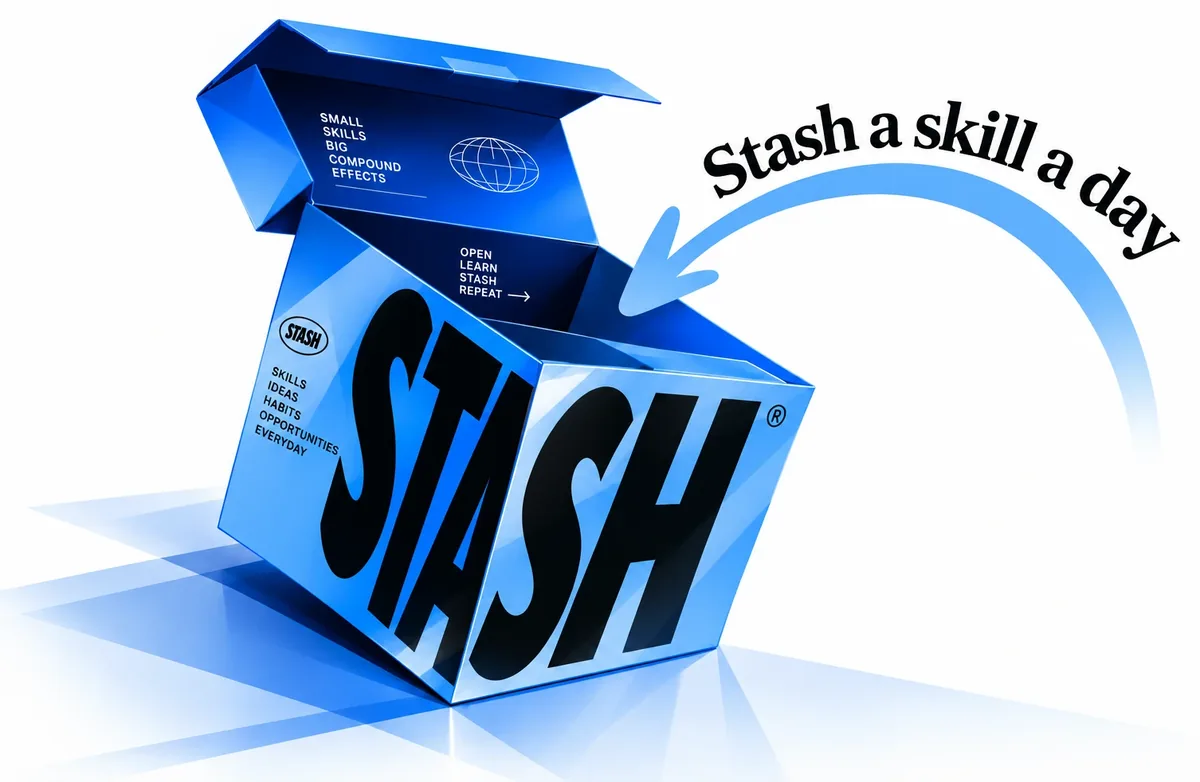
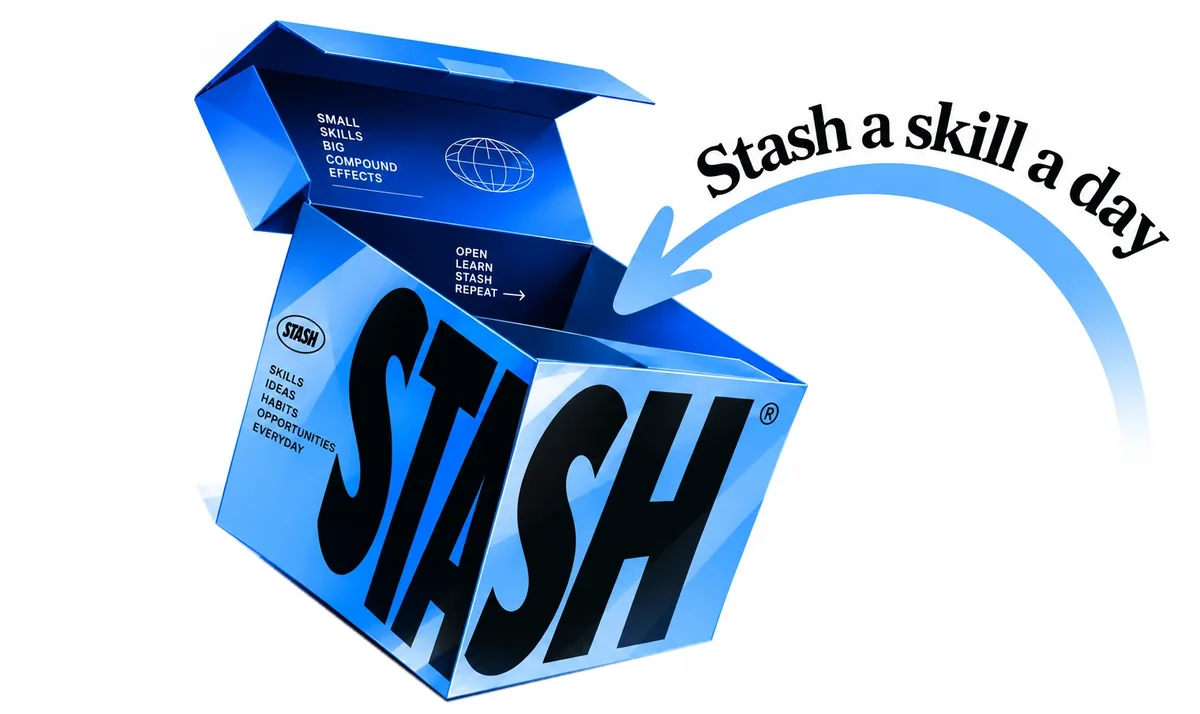
Lo-fi wireframe as one continuous sheet; brand image without floor reflection
- 01-Lofi-Mobile-Wireframe is now the team's Phase 2 format: a single
  tall white page, boards stacked, no notes, footers or page breaks.
  The .drawio export follows it as one diagram.
- The STASH image no longer has the light reflection under the box, so
  the text below it keeps full contrast.

diff --git a/src/drawio.js b/src/drawio.js
@@ -5,7 +5,7 @@ const rgb = (c) => { const m = c.match(/[\d.]+/g); if (!m) return null; const [r
 const R = (n) => Math.round(n * 10) / 10;
 
 export function toDrawio() {
-  const pages = [...document.querySelectorAll('.page')];
+  const pages = document.body.dataset.sheet === '1' ? [document.getElementById('boards')] : [...document.querySelectorAll('.page')];
   const pageId = (i) => 'page-' + i;
   const linkTo = (href) => { const m = href.match(/^#b-(\d+)$/); if (m) return pageId(+m[1] + 2); if (href === '#cover') return pageId(0); if (href === '#audit') return pageId(1); return null; };
   let xml = `<mxfile host="app.diagrams.net" agent="Stash board export" version="24.0.0" type="device">`;
@@ -79,7 +79,7 @@ export function toDrawio() {
     for (const ch of page.children) walk(ch, 1, P.left, P.top, null, 1);
     // real connectors between phones that link to each other
     page.querySelectorAll('.b-row').forEach((row) => { const cols = [...row.querySelectorAll('.b-col')]; cols.slice(0, -1).forEach((col, i) => { const via = col.querySelector('.b-label .via'); if (!via) return; const a = phoneIds.get(col.querySelector('.phone')), b = phoneIds.get(cols[i + 1].querySelector('.phone')); cells.push(`<mxCell id="c${pi}-${n++}" value="" style="endArrow=block;endFill=1;html=1;rounded=0;strokeColor=#000000;exitX=1;exitY=0.45;entryX=0;entryY=0.45;" edge="1" parent="1" source="${a}" target="${b}"><mxGeometry relative="1" as="geometry"/></mxCell>`); }); });
-    const name = pi === 0 ? 'Journey map' : pi === 1 ? 'Audit' : `Board ${pi - 1}`;
+    const name = document.body.dataset.sheet === '1' ? 'Lo-fi wireframe' : pi === 0 ? 'Journey map' : pi === 1 ? 'Audit' : `Board ${pi - 1}`;
     xml += `<diagram id="${pageId(pi)}" name="${name}"><mxGraphModel dx="1600" dy="1100" grid="1" gridSize="10" guides="1" tooltips="1" connect="1" arrows="1" fold="1" page="1" pageScale="1" pageWidth="${Math.round(P.width)}" pageHeight="${Math.round(P.height)}" math="0" shadow="0"><root><mxCell id="0"/><mxCell id="1" parent="0"/>${cells.join('')}</root></mxGraphModel></diagram>`;
   });
   return xml + '</mxfile>';

diff --git a/src/board.js b/src/board.js
@@ -55,7 +55,10 @@ const board = ([t, sub, ids], b) => page(`<div class="b-over"><span>Stash / boar
   <div class="b-row">${ids.map((id) => `<div class="b-col" id="s-${id}" data-id="${id}"><div class="b-label"><b>${num(id)}</b><span class="nm">${esc(SCREENS[id].title)}</span></div>${phone(id)}<div class="b-note"><h3>${fi === 'lofi' ? 'Design note' : 'Interaction and behaviour'}</h3><p>${esc(SCREENS[id].note)}</p></div></div>`).join('')}</div>
   <div class="b-foot"><span>390 pt wide phone · sample content · ${FI[1].toLowerCase()}</span><span>${b > 0 ? `<a href="#b-${b - 1}">← Board ${b}</a> &nbsp; ` : ''}<a href="#cover">Journey map</a>${b < BOARDS.length - 1 ? ` &nbsp; <a href="#b-${b + 1}">Board ${b + 2} →</a>` : ''}</span></div>`);
 
-document.getElementById('boards').innerHTML = cover() + audit() + BOARDS.map(board).join('');
+// The lo-fi wireframe is one continuous sheet (the team's Phase 2 format): boards stacked, no notes, no page breaks.
+const SHEET = fi === 'lofi';
+document.body.dataset.sheet = SHEET ? '1' : '';
+document.getElementById('boards').innerHTML = SHEET ? BOARDS.map(board).join('') : cover() + audit() + BOARDS.map(board).join('');
 
 // Post-render: link hot-spots, "continues" tags, arrows between linked neighbours.
 document.querySelectorAll('.b-col').forEach((col) => {
@@ -81,6 +84,7 @@ document.querySelectorAll('.b-row').forEach((rowEl) => {
     rowEl.insertAdjacentHTML('beforeend', `<div class="b-arrow" style="left:${x}px"><svg width="34" height="14" viewBox="0 0 34 14" fill="none" stroke="currentColor" stroke-width="2" stroke-linecap="round" stroke-linejoin="round"><path d="M2 7h22M24 2.5l8 4.500-8 4.500z"/></svg></div>`);
   });
 });
+if (SHEET) { const h = Math.ceil(document.getElementById('boards').getBoundingClientRect().height); const st = document.createElement('style'); st.textContent = `@page { size: 1512px ${h}px; margin: 0; }`; document.head.append(st); }
 document.documentElement.dataset.ready = '1';
 
 // ?export=drawio replaces the page with the draw.io XML so a headless browser can dump it.

diff --git a/styles/app.css b/styles/app.css
@@ -307,9 +307,9 @@ div.row { cursor: default; }
 .search + .chips { margin-top: 18px; }
 
 /* Brand hero on Welcome: full-bleed, keeps its aspect ratio so nothing shifts while it loads */
-.hero-art { display: block; width: calc(100% + var(--gutter) * 2); max-width: none; height: auto; aspect-ratio: 780 / 509; margin: 0 calc(var(--gutter) * -1); }
+.hero-art { display: block; width: calc(100% + var(--gutter) * 2); max-width: none; height: auto; aspect-ratio: 780 / 464; margin: 0 calc(var(--gutter) * -1); }
 [data-fi="lofi"] .hero-art, [data-fi="wire"] .hero-art { filter: grayscale(1) contrast(1.1); }
 .hero-ph { display: none; }
 [data-fi="lofi"] .hero-art { display: none; }
-[data-fi="lofi"] .hero-ph { display: grid; place-items: center; aspect-ratio: 780 / 509; margin: 0 calc(var(--gutter) * -1); border: 1px solid #000; font-size: 13px; color: #333; text-align: center; padding: 0 24px;
+[data-fi="lofi"] .hero-ph { display: grid; place-items: center; aspect-ratio: 780 / 464; margin: 0 calc(var(--gutter) * -1); border: 1px solid #000; font-size: 13px; color: #333; text-align: center; padding: 0 24px;
   background: linear-gradient(to top right, transparent calc(50% - 0.5px), #000 calc(50% - 0.5px), #000 calc(50% + 0.5px), transparent calc(50% + 0.5px)), linear-gradient(to bottom right, transparent calc(50% - 0.5px), #000 calc(50% - 0.5px), #000 calc(50% + 0.5px), transparent calc(50% + 0.5px)), #F5F5F5; }

diff --git a/styles/board.css b/styles/board.css
@@ -77,3 +77,13 @@ body[data-fi="lofi"] .c-how, body[data-fi="lofi"] .b-foot span, body[data-fi="lo
 body[data-fi="lofi"] .a-item { background: #fff; border: 1px solid #000; border-bottom: 0; padding: 16px; margin: 0; }
 body[data-fi="lofi"] .phone .more { border-radius: 0; background: #fff; color: #000; border: 1px solid #000; }
 body[data-fi="lofi"] .b-sub, body[data-fi="lofi"] .c-lead, body[data-fi="lofi"] .b-title, body[data-fi="lofi"] .c-title { width: fit-content; background: #fff; }
+
+/* Continuous sheet (lo-fi wireframe): one tall white page, boards stacked, no notes, footers or page breaks. */
+body[data-sheet="1"] #boards { width: 1512px; margin: 0 auto; background: #FFFFFF; }
+body[data-sheet="1"] .page { height: auto; padding: 24px 56px 20px; background: #FFFFFF; break-after: auto; page-break-after: auto; margin: 0; }
+body[data-sheet="1"] .page:first-child { padding-top: 56px; }
+body[data-sheet="1"] .page:last-child { padding-bottom: 56px; }
+body[data-sheet="1"] .page::before { display: none; }
+body[data-sheet="1"] .b-note, body[data-sheet="1"] .b-foot, body[data-sheet="1"] .b-over span + span { display: none; }
+body[data-sheet="1"] .b-title { font-size: 34px; margin-top: 4px; }
+body[data-sheet="1"] .b-row { flex: none; margin-top: 10px; }

diff --git a/src/s-start.js b/src/s-start.js
@@ -13,7 +13,7 @@ export default {
     note: 'Three clear choices, ranked. No tab bar before sign-in. States the three things Stash does in plain words and says up front that this build holds sample content.',
     render: () => ({
       body: `<div class="stack">
-        <img class="hero-art" src="assets/stash-hero-780.webp" srcset="assets/stash-hero-780.webp 780w, assets/stash-hero-1200.webp 1200w" sizes="(min-width: 430px) 430px, 100vw" width="780" height="509" alt="A blue STASH box opening, with the line: Stash a skill a day." fetchpriority="high">
+        <img class="hero-art" src="assets/stash-hero-780.webp" srcset="assets/stash-hero-780.webp 780w, assets/stash-hero-1200.webp 1200w" sizes="(min-width: 430px) 430px, 100vw" width="780" height="464" alt="A blue STASH box opening, with the line: Stash a skill a day." fetchpriority="high">
         <div class="hero-ph" aria-hidden="true">Brand image: STASH box, "Stash a skill a day"</div>
         <h1 class="sr" tabindex="-1">Stash a skill a day.</h1>
         <p class="lead">Short lessons, your PDFs as podcasts, and proof of the skills your next role needs.</p>

diff --git a/tools/check-pdfs.py b/tools/check-pdfs.py
@@ -1,17 +1,18 @@
-"""Checks the exported boards: page count, page size, internal links resolve, no link points off-document."""
-import sys, pymupdf
+"""Checks the exported boards: page count, internal links resolve, no link points off-document.
+The lo-fi wireframe is a single continuous sheet; the other two are one board per page plus cover and audit."""
+import os, sys, pymupdf
 ok = True
-for name, want_links in [("01-Lofi-Mobile-Wireframe", False), ("02-Interactive-Mobile-Wireframe", True), ("03-Mobile-Prototype", True)]:
+for name, want_pages, want_links in [("01-Lofi-Mobile-Wireframe", 1, False), ("02-Interactive-Mobile-Wireframe", 15, True), ("03-Mobile-Prototype", 15, True)]:
     path = f"deliverables/{name}.pdf"
     d = pymupdf.open(path)
-    if d.page_count == 16 and not d[15].get_text().strip():  # Chrome appends an empty sheet
-        d.delete_page(15); d.saveIncr() if False else d.save(path + ".tmp", garbage=3, deflate=True); d.close()
-        import os; os.replace(path + ".tmp", path); d = pymupdf.open(path)
+    if d.page_count > want_pages and not d[-1].get_text().strip():  # Chrome can append an empty sheet
+        d.delete_page(d.page_count - 1); d.save(path + ".tmp", garbage=3, deflate=True); d.close(); os.replace(path + ".tmp", path); d = pymupdf.open(path)
     links = [l for p in d for l in p.get_links()]
     internal = [l for l in links if l["kind"] in (pymupdf.LINK_GOTO, pymupdf.LINK_NAMED)]
     bad = [l for l in internal if l.get("page", 0) < 0 or l.get("page", 0) >= d.page_count]
     external = [l.get("uri") for l in links if l["kind"] == pymupdf.LINK_URI]
     r = d[0].rect
     print(f"{name}: {d.page_count} pages, {round(r.width)}x{round(r.height)} pt, {len(internal)} internal links, {len(bad)} broken, {len(external)} external")
-    if d.page_count != 15 or bad or external or (want_links and len(internal) < 100): ok = False
+    if not d[0].get_text().strip(): print('  first page has no text'); ok = False
+    if d.page_count != want_pages or bad or external or (want_links and len(internal) < 100): ok = False
 sys.exit(0 if ok else 1)
